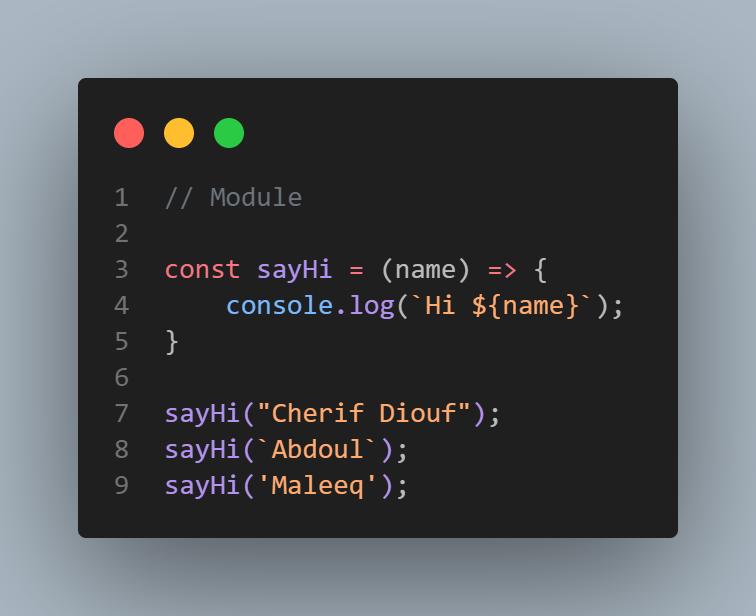
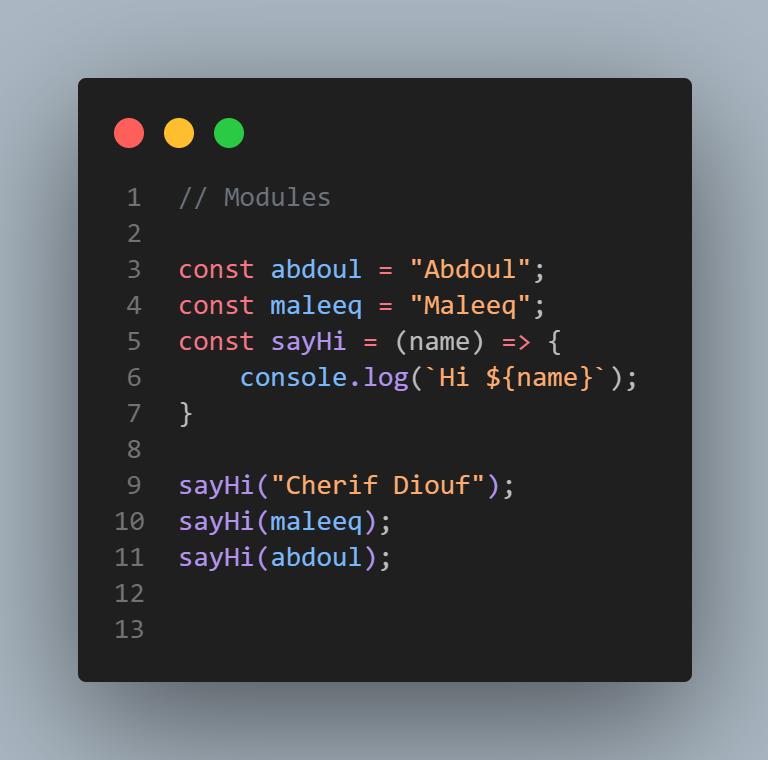
Node tutorial

diff --git a/1-node-tutorial/4-names.js b/1-node-tutorial/4-names.js
@@ -5,10 +5,16 @@
 // fr : CommonJS, chaque fichier est un module (par défaut)
 // fr : Code encapsulé des modules (partage uniquement le minimum)
 
-const names = require('./4-names');
-const sayHi = require('./5-utils');
-const data = require('./alternative-flavor');
 
-sayHi("Cherif Diouf");
-sayHi(names.maleeq);
-sayHi(names.abdoul);
+// local          = locale
+const secret = "Super SECRET";
+
+// share          = partager
+const abdoul = "Abdoul";
+const maleeq = "Maleeq";
+
+
+module.exports = { abdoul, maleeq };
+
+console.log(module);
+

diff --git a/1-node-tutorial/3-modules.js b/1-node-tutorial/3-modules.js
@@ -6,8 +6,8 @@
 // fr : Code encapsulé des modules (partage uniquement le minimum)
 
 const names = require('./4-names');
-const sayHi = require('./5-utils');
-const data = require('./alternative-flavor');
+const sayHi = require('./5-utils')
+// console.log(names);
 
 sayHi("Cherif Diouf");
 sayHi(names.maleeq);

diff --git a/1-node-tutorial/alternative-flavor.js b/1-node-tutorial/alternative-flavor.js
@@ -1,0 +1,6 @@
+module.exports.items = { 1: 'item-1', 2: 'item-2' };
+const person = {
+    name: "Fatou",
+}
+
+module.exports.singlePerson = person

diff --git a/1-node-tutorial/5-utils.js b/1-node-tutorial/5-utils.js
@@ -1,0 +1,5 @@
+const sayHi = (name) => {
+    console.log(`Hi ${name}`);
+}
+// export default
+module.exports = sayHi;
